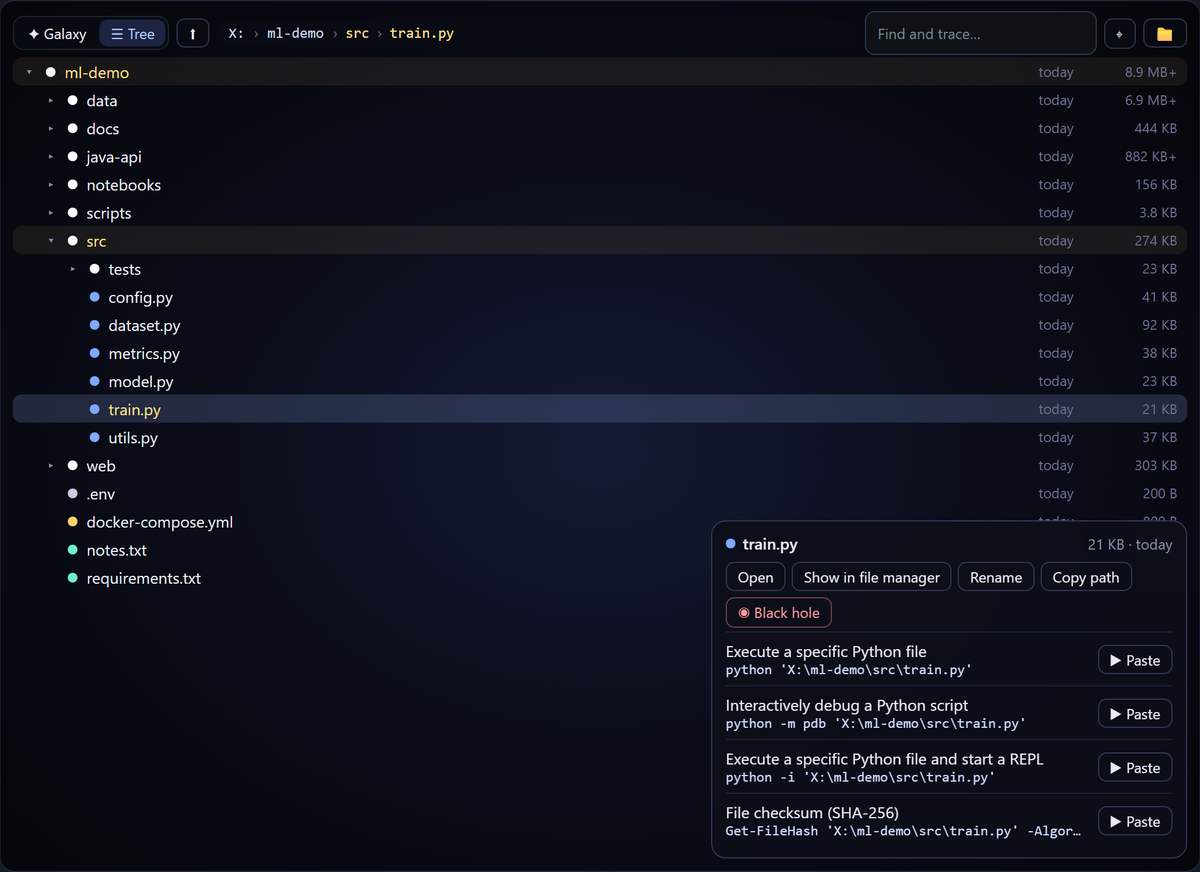
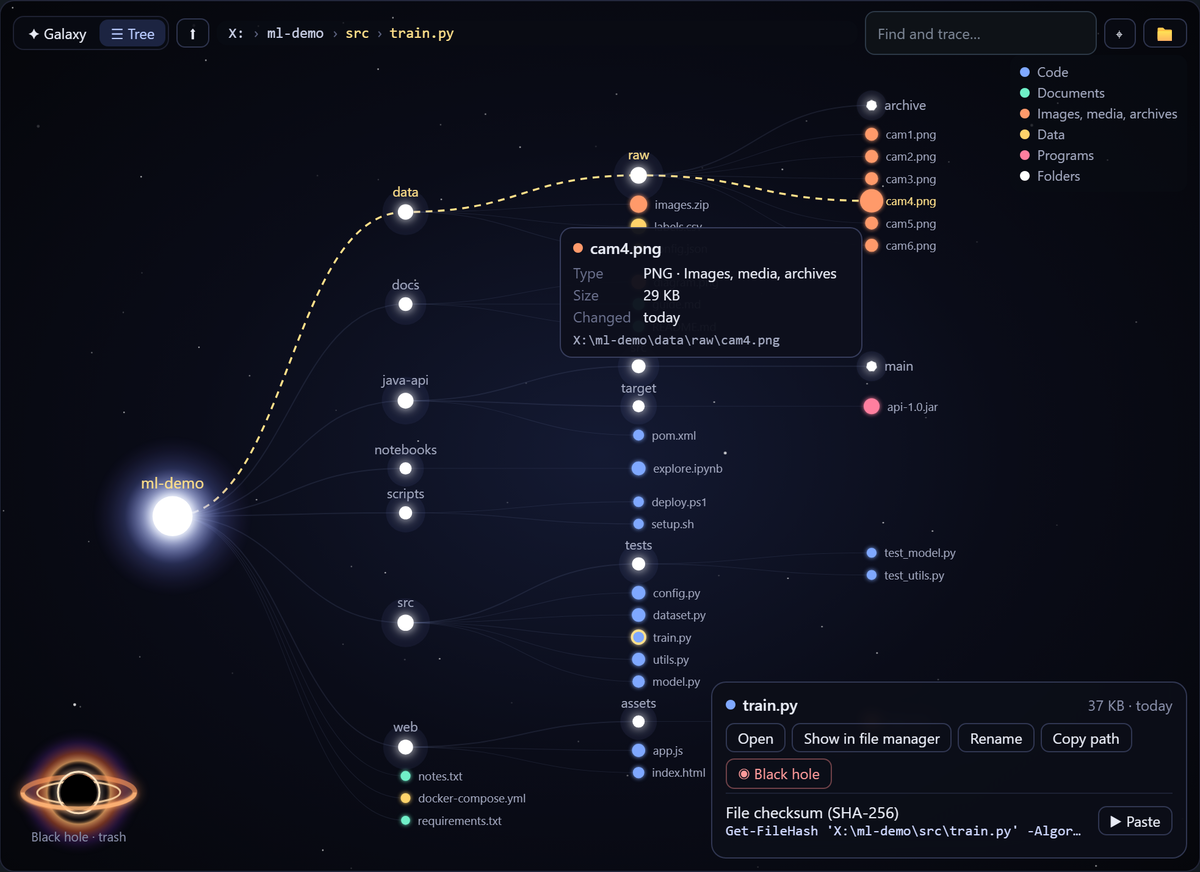
Folder map: smooth on large folders; README shows the branch view
Measured in headless Edge: an 830-star map ran at 2-4 frames per second.
Now each folder shows 40 entries (was 60) and a scan reads 1,200 (was
2,000); hidden names are not drawn and only shown ones counter-rotate;
twinkling background stars, which repaint the whole sky, stop while
stars move and on large maps; a map over 400 stars keeps glows on the
first layer only, does not spin, and morphs its stars before showing
links and names again. Script and layout per morph frame: 0.8 ms at 33
stars, 3.3 ms at 498, 6-7 ms at 830. A tree taller than the view is
framed on the centre's row.

diff --git a/frontend/map.js b/frontend/map.js
@@ -400,7 +400,7 @@ function mapDraw(fresh) {
 // to the deepest layer on the right). Switching morphs one into the other.
 const Galaxy = (() => {
   let svg, el, W = 600, H = 400, bg, world, spin, neb, fx, hole, linkSel, haloSel, starSel, labelSel, nodes = [], links = [], delaunay = null, fit = 1, home, zoom;
-  let hoverNode = null, drag = null, held = null, morphing = false;
+  let hoverNode = null, drag = null, held = null, morphing = false, heavy = false, shown = null;
   const COL = 210, ROW = 20; // branches: a column per layer, a row per star
   const ring = d => [0, 150, 240, 315][d.depth] || 330;
   const rad = d => d.depth === 0 ? 18 : d.data.dir ? 4.5 + Math.min(10, Math.sqrt((d.data.files || 0) + (d.data.dirs || 0) * 3)) : d.data.more ? 3 : 1.8 + Math.min(6, Math.log10(1 + d.data.size) * 0.9);
@@ -430,10 +430,10 @@ const Galaxy = (() => {
     window.addEventListener("mousemove", onDrag);
     new ResizeObserver(() => resize()).observe(el);
     d3.timer(() => {
-      if (FMap.mode !== "galaxy" || morphing || !FMap.auto || hoverNode || drag || document.getElementById("mapPane").hidden) return;
+      if (FMap.mode !== "galaxy" || morphing || heavy || !FMap.auto || hoverNode || drag || document.getElementById("mapPane").hidden) return;
       FMap.angle = (FMap.angle + 0.025) % 360;
       spin.attr("transform", `rotate(${FMap.angle})`);
-      labelSel && labelSel.attr("transform", d => `rotate(${-FMap.angle},${d.x},${d.y})`);
+      shown && shown.attr("transform", d => `rotate(${-FMap.angle},${d.x},${d.y})`);
     });
   }
 
@@ -478,7 +478,7 @@ const Galaxy = (() => {
     const x0 = d3.min(nodes, d => d.bx) - 30, x1 = d3.max(nodes, d => d.bx) + 170;
     const y0 = d3.min(nodes, d => d.by) - 20, y1 = d3.max(nodes, d => d.by) + 20;
     fit = Math.max(.45, Math.min(1.3, (W - 40) / (x1 - x0), (H - 90) / (y1 - y0)));
-    const cy = (y1 - y0) * fit > H - 90 ? y0 + (H - 90) / 2 / fit : (y0 + y1) / 2; // tall: start at the top
+    const cy = (y1 - y0) * fit > H - 90 ? FMap.root.by : (y0 + y1) / 2; // taller than the view: the centre's row
     home = d3.zoomIdentity.translate(0, 22).scale(fit).translate(-(x0 + x1) / 2, -cy);
   }
 
@@ -503,15 +503,16 @@ const Galaxy = (() => {
   }
 
   // place moves every mark to the stars' current positions
-  function place(branchLabels) {
+  function place(branchLabels, starsOnly) {
     starSel.attr("cx", d => d.x).attr("cy", d => d.y);
     haloSel.attr("cx", d => d.x).attr("cy", d => d.y);
+    spin.attr("transform", `rotate(${FMap.angle})`);
+    if (starsOnly) return;
     linkSel.attr("d", linkPath);
     // branches: a folder with stars after it is named above itself (its
     // links leave to the right), the others to the right
     if (branchLabels) labelSel.attr("x", d => d.children ? d.x : d.x + rad(d) + 7).attr("y", d => d.children ? d.y - rad(d) - 7 : d.y + 4).attr("text-anchor", d => d.children ? "middle" : "start");
     else labelSel.attr("x", d => d.x).attr("y", d => d.y - rad(d) - (d.data.dir ? 8 : 5)).attr("text-anchor", "middle");
-    spin.attr("transform", `rotate(${FMap.angle})`);
     labelSel.attr("transform", d => `rotate(${-FMap.angle},${d.x},${d.y})`);
   }
 
@@ -523,7 +524,9 @@ const Galaxy = (() => {
     const from = nodes.map(d => [d.x, d.y]), target = nodes.map(d => to === "galaxy" ? [d.gx, d.gy] : [d.bx, d.by]);
     const a0 = FMap.angle;
     morphing = to;
+    el.classList.add("still"); // twinkling stars repaint the whole sky: paused while stars move
     setHover(null); mapTip(null);
+    if (heavy) { linkSel.attr("display", "none"); labelSel.attr("display", "none"); }
     fitTo(to);
     svg.transition().duration(dur).ease(d3.easeCubicInOut).call(zoom.transform, home);
     neb.transition().duration(dur).attr("opacity", to === "galaxy" ? 1 : 0);
@@ -531,7 +534,7 @@ const Galaxy = (() => {
       const t = Math.min(1, ms / dur), e = d3.easeCubicInOut(t);
       nodes.forEach((d, i) => { d.x = from[i][0] + (target[i][0] - from[i][0]) * e; d.y = from[i][1] + (target[i][1] - from[i][1]) * e; });
       if (to !== "galaxy") FMap.angle = a0 * (1 - e);
-      place(to === "galaxy" ? e < .5 : e >= .5);
+      place(to === "galaxy" ? e < .5 : e >= .5, heavy);
       if (t >= 1) { tm.stop(); done(); }
     });
     // a hidden window draws no frames: finish anyway
@@ -539,6 +542,8 @@ const Galaxy = (() => {
     function done() {
       clearTimeout(safety);
       morphing = false;
+      el.classList.toggle("still", heavy);
+      if (heavy) linkSel.attr("display", null);
       place(to !== "galaxy");
       delaunay = d3.Delaunay.from(nodes, d => d.x, d => d.y);
       FMap.auto = to === "galaxy";
@@ -560,6 +565,8 @@ const Galaxy = (() => {
     });
     FMap.root.fx = 0; FMap.root.fy = 0;
     const many = nodes.length > 600;
+    heavy = nodes.length > 400; // a lighter drawing: few glows, no spin or twinkle, morph moves stars only
+    el.classList.toggle("still", heavy);
     const sim = d3.forceSimulation(nodes)
       .force("link", d3.forceLink(links).distance(l => l.target.data.dir ? 90 : 30).strength(.7))
       .force("charge", d3.forceManyBody().strength(d => d.data.dir ? -380 : many ? -18 : -40).distanceMax(400))
@@ -576,13 +583,14 @@ const Galaxy = (() => {
     linkSel = spin.append("g").selectAll("path").data(links).join("path").attr("class", "map-link")
       .attr("stroke-width", d => d.target.data.dir ? 1.1 : .6).attr("d", linkPath);
     haloSel = spin.append("g").selectAll("circle").data(nodes.filter(d => d.data.dir)).join("circle")
-      .attr("cx", d => d.x).attr("cy", d => d.y).attr("r", d => d.depth ? rad(d) * 3 : 72).attr("fill", d => d.depth ? "rgba(140,160,255,.07)" : "url(#mapCore)");
+      .attr("cx", d => d.x).attr("cy", d => d.y).attr("r", d => d.depth ? rad(d) * 3 : 72).attr("fill", d => d.depth ? "rgba(140,160,255,.07)" : "url(#mapCore)")
+      .attr("display", d => heavy && d.depth > 1 ? "none" : null);
     starSel = spin.append("g").selectAll("circle").data(nodes).join("circle")
       .attr("cx", d => d.x).attr("cy", d => d.y).attr("r", rad)
       .attr("fill", d => mapColor(d)).attr("fill-opacity", d => d.data.more ? .45 : 1)
       .attr("stroke", d => d.data.dir && !d.data.read && d.depth ? "rgba(255,255,255,.6)" : null)
       .attr("stroke-dasharray", d => d.data.dir && !d.data.read && d.depth ? "2 2" : null)
-      .attr("filter", d => d.data.dir ? "url(#mapG2)" : many ? null : "url(#mapG1)");
+      .attr("filter", d => heavy ? (d.data.dir && d.depth <= 1 ? "url(#mapG2)" : null) : d.data.dir ? "url(#mapG2)" : "url(#mapG1)");
     labelSel = spin.append("g").selectAll("text").data(nodes).join("text").attr("class", "map-label")
       .attr("x", d => d.x).attr("y", d => d.y - rad(d) - (d.data.dir ? 8 : 5)).attr("text-anchor", "middle")
       .style("font-size", d => d.depth === 0 ? "14px" : d.data.dir ? "12px" : "10.5px").text(d => d.data.name);
@@ -602,7 +610,11 @@ const Galaxy = (() => {
     if (!labelSel) return;
     const k = d3.zoomTransform(el).k, on = new Set(FMap.trace ? FMap.trace.ancestors() : []);
     const branches = FMap.mode !== "galaxy" && !morphing;
-    labelSel.attr("opacity", d => (branches && k >= .55) || d.depth <= 1 || (d.data.dir && k > fit * 1.2) || k > fit * 2.2 || on.has(d) || d === hoverNode || d === FMap.sel ? 1 : 0);
+    if (morphing && heavy) return;
+    const vis = d => (branches && k >= .55) || d.depth <= 1 || (d.data.dir && k > fit * 1.2) || k > fit * 2.2 || on.has(d) || d === hoverNode || d === FMap.sel;
+    labelSel.attr("display", d => vis(d) ? null : "none");
+    shown = labelSel.filter(vis);
+    shown.attr("transform", d => `rotate(${-FMap.angle},${d.x},${d.y})`);
   }
 
   // paint shows the trace: the path from the centre to the hovered (or

diff --git a/frontend/style.css b/frontend/style.css
@@ -291,6 +291,7 @@ table.params input[type=text], table.params select { width: 100%; min-height: 32
 .map-label.on { fill: #ffe08a; }
 .map-twinkle { fill: #fff; animation: maptw 4s ease-in-out infinite; }
 @keyframes maptw { 0%, 100% { opacity: .15; } 50% { opacity: .8; } }
+.map-sky.still .map-twinkle { animation: none; opacity: .4; }
 .map-hole .disk { animation: mapdisk 6s linear infinite; transform-origin: 0 0; }
 @keyframes mapdisk { from { transform: rotate(-8deg); } 50% { transform: rotate(8deg); } to { transform: rotate(-8deg); } }
 .map-hole .photon { transition: stroke-width .2s, r .2s; }

diff --git a/internal/fsmap/fsmap.go b/internal/fsmap/fsmap.go
@@ -27,8 +27,8 @@ import (
 const Depth = 3
 
 const (
-	perDir     = 60   // entries shown per folder; the others are summed in More
-	maxEntries = 2000 // entries read per scan, then deeper folders stay closed
+	perDir     = 40   // entries shown per folder; the others are summed in More
+	maxEntries = 1200 // entries read per scan, then deeper folders stay closed
 )
 
 // Node is a file or folder on the map.

diff --git a/README.md b/README.md
@@ -165,11 +165,13 @@ For interface work without the desktop shell: `CMDEX_DB=./tmp/cmdex.db go run ./
 - **File actions** (right-click): open, show in the file manager, rename, new folder, copy the path.
 - **The black hole is the trash.** Drag a star into it and the file is stretched into a strand that winds into the hole, while it goes to the system trash (restorable). Deleting never bypasses the trash.
 - **Commands for a file** come from your library (`python …`, `java -jar …`, `mvn package` for a `pom.xml`) and are pasted into the terminal.
-- **Tree** shows the same folders as a list, with the same actions.
+- **Tree** arranges the same stars as branches, from the core on the left to the third layer on the right; switching between the two views morphs one into the other.
 
-| The black hole | Tree view |
+| The black hole | Galaxy ⇄ branches |
 |---|---|
-| <img src="docs/img/map-blackhole.gif" width="380" alt="A file star stretched into a strand and pulled into the black hole"> | <img src="docs/img/map-tree.png" width="420" alt="The tree view with the path to train.py highlighted"> |
+| <img src="docs/img/map-blackhole.gif" width="380" alt="A file star stretched into a strand and pulled into the black hole"> | <img src="docs/img/map-morph.gif" width="420" alt="The galaxy unrolling into branches and curling back"> |
+
+<p align="center"><img src="docs/img/map-tree.png" width="720" alt="The tree view: branches from the core on the left, a hovered photo and its path traced"></p>
 
 ### Packs
 
@@ -327,11 +329,13 @@ sh dist/install.sh
 - **Thao tác file** (chuột phải): mở, hiện trong Explorer, đổi tên, tạo thư mục, chép đường dẫn.
 - **Hố đen là Thùng rác.** Kéo ngôi sao thả vào hố đen: file bị kéo thành sợi xoắn vào hố đen, còn thực tế là vào Thùng rác của hệ điều hành (khôi phục được). Không bao giờ xoá vĩnh viễn.
 - **Lệnh cho file** lấy từ thư viện (`python …`, `java -jar …`, `mvn package` cho `pom.xml`) và được dán vào terminal.
-- **Cây thư mục** hiện cùng dữ liệu dạng danh sách, đủ các thao tác như trên.
+- **Cây thư mục** xếp chính các ngôi sao đó thành nhánh, từ lõi bên trái sang lớp thứ ba bên phải; chuyển qua lại giữa hai chế độ có hiệu ứng thiên hà duỗi thành nhánh và cuộn lại.
 
-| Hố đen | Cây thư mục |
+| Hố đen | Ngân hà ⇄ nhánh |
 |---|---|
-| <img src="docs/img/map-blackhole.gif" width="380" alt="Ngôi sao file bị kéo thành sợi và hút vào hố đen"> | <img src="docs/img/map-tree.png" width="420" alt="Chế độ cây, đường dẫn tới train.py được tô sáng"> |
+| <img src="docs/img/map-blackhole.gif" width="380" alt="Ngôi sao file bị kéo thành sợi và hút vào hố đen"> | <img src="docs/img/map-morph.gif" width="420" alt="Thiên hà duỗi thành nhánh rồi cuộn lại"> |
+
+<p align="center"><img src="docs/img/map-tree.png" width="720" alt="Chế độ cây: các nhánh từ lõi bên trái, một ảnh đang được rê chuột và truy vết"></p>
 
 ### Gói công cụ
 
